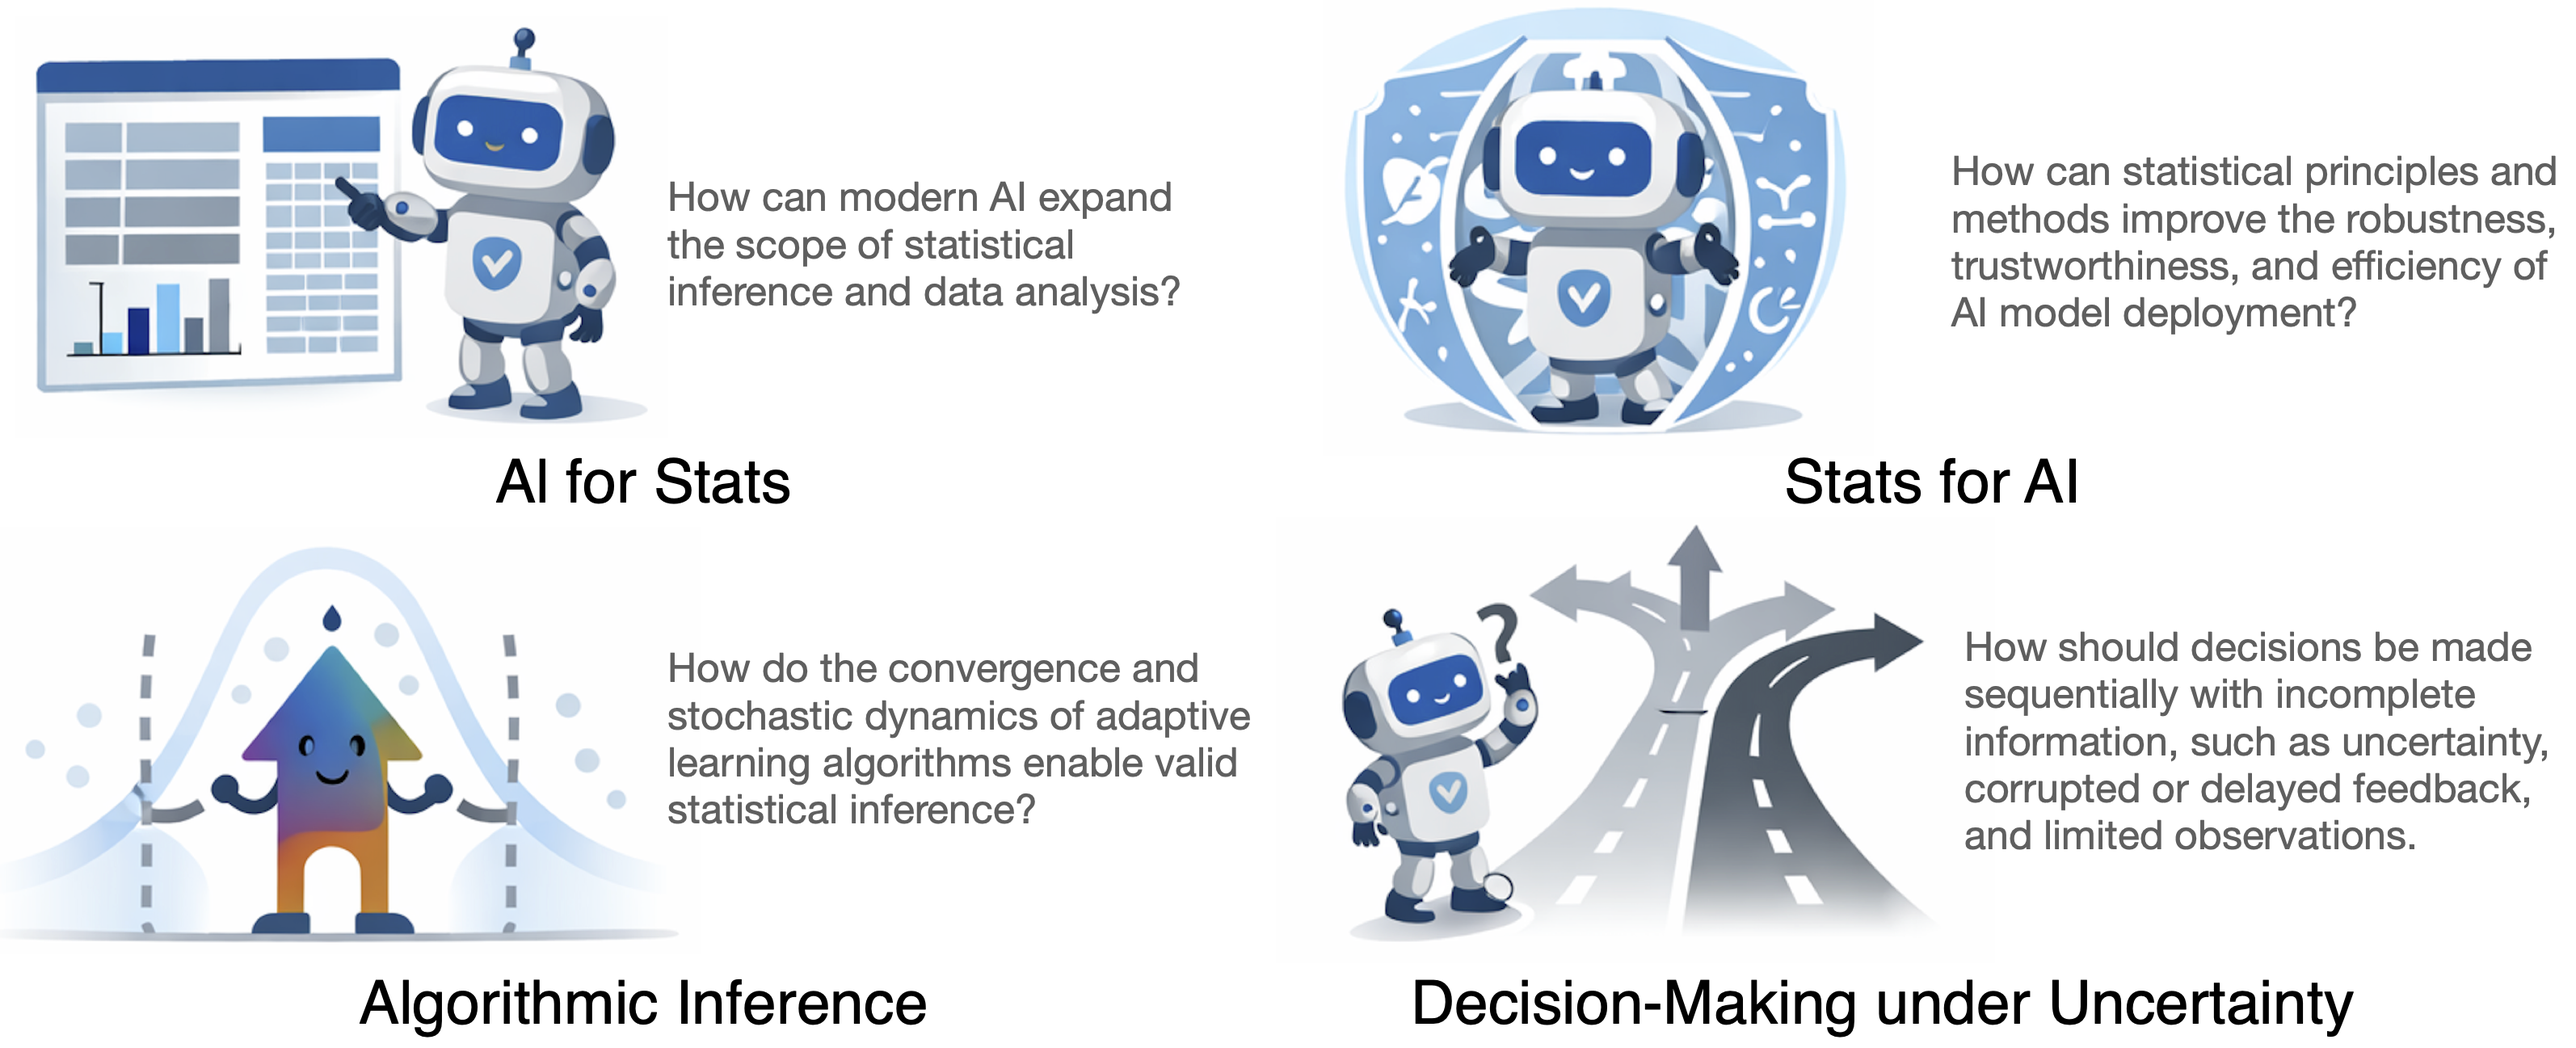
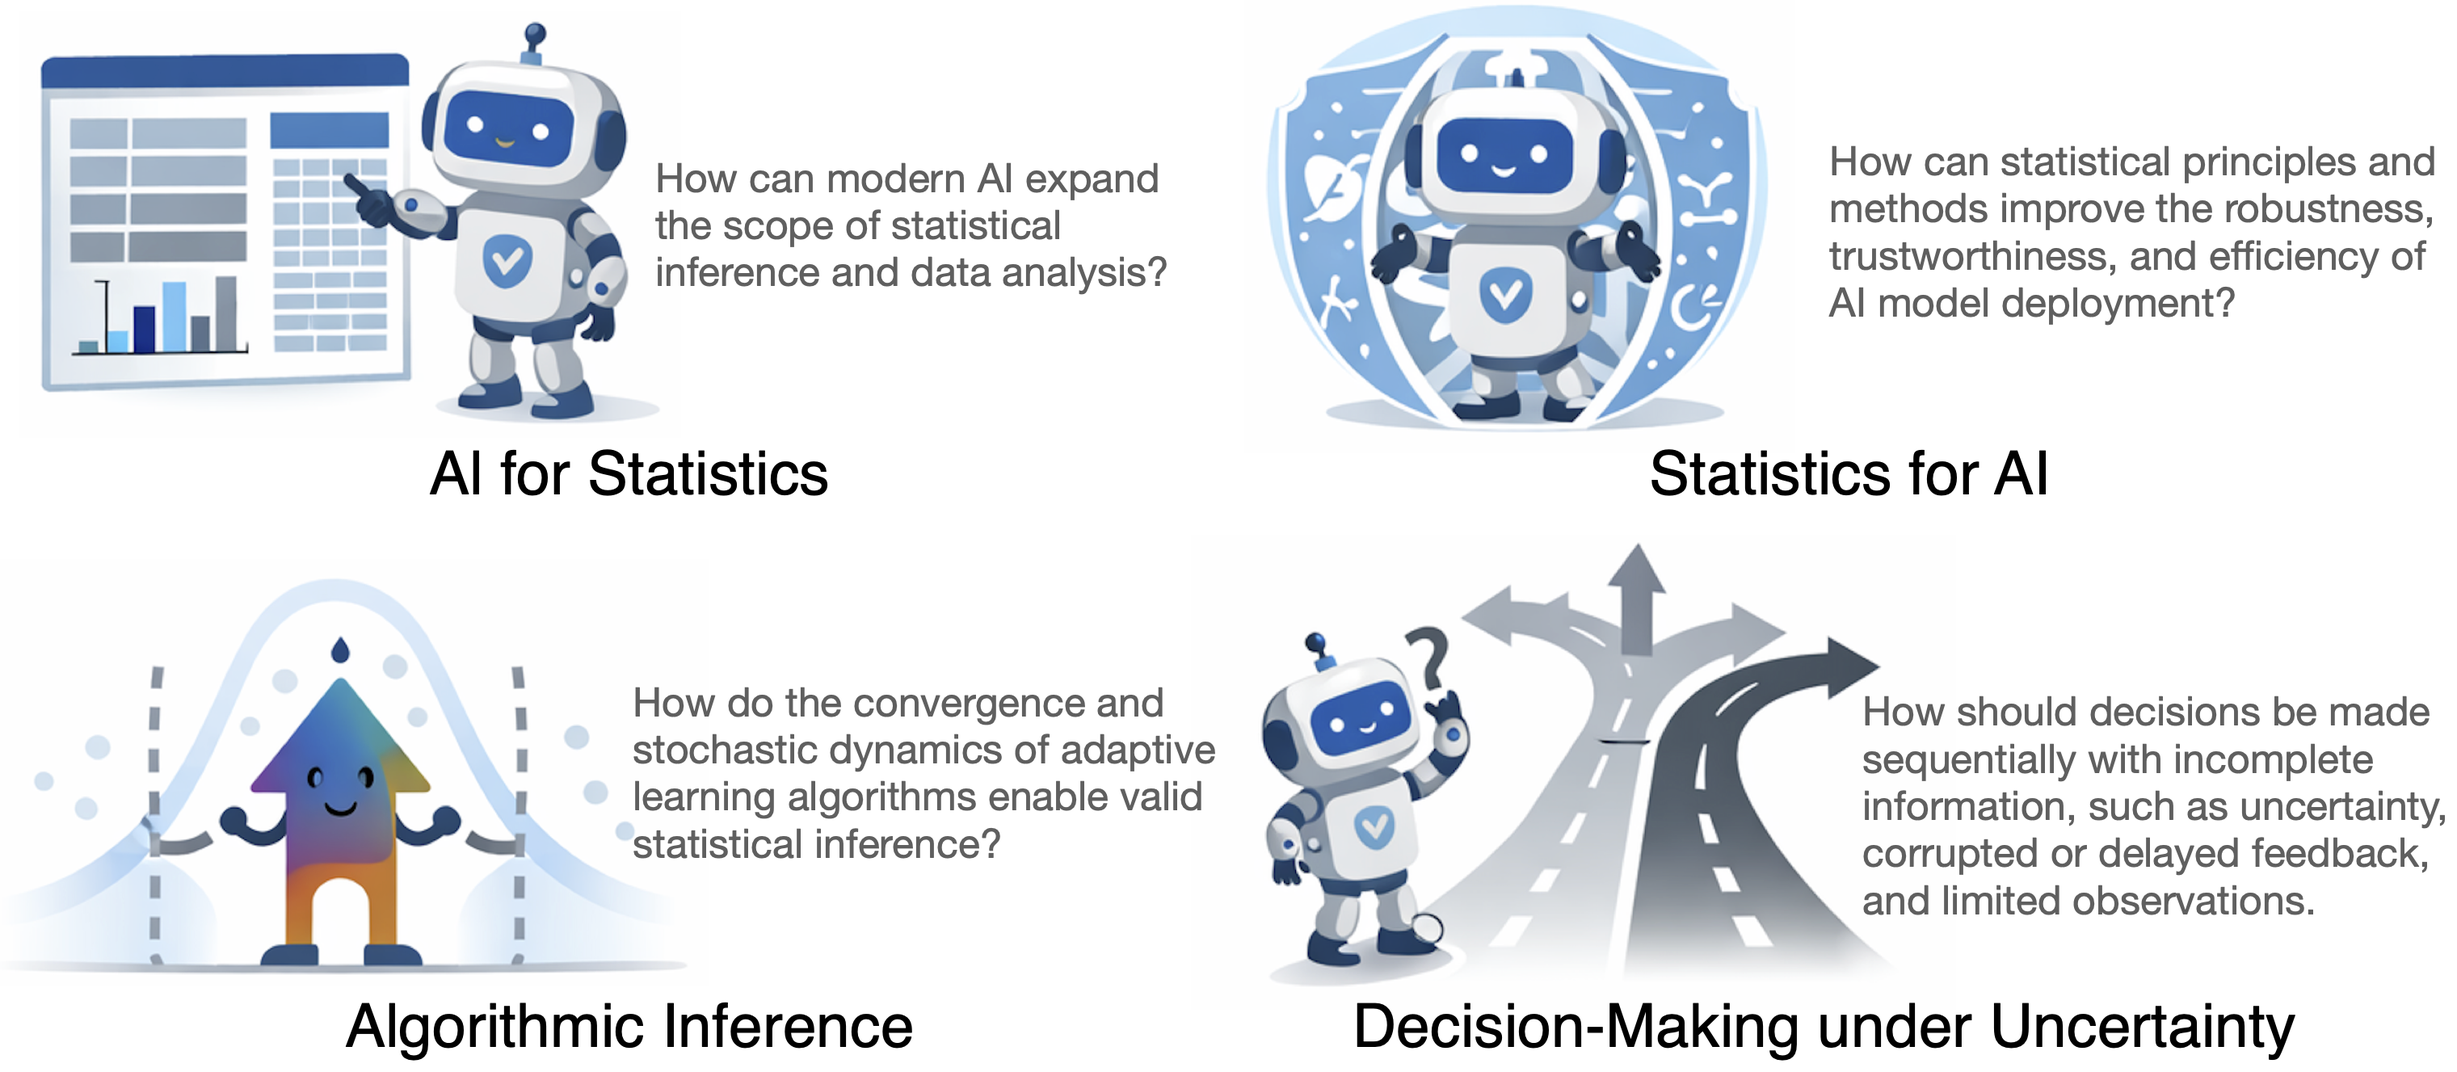
Update research

diff --git a/_pages/research.md b/_pages/research.md
@@ -109,6 +109,9 @@ My recent work explores these ideas in a range of settings, including local SGD 
 
 - **Online Statistical Inference for Nonlinear Stochastic Approximation with Markovian Data**  
   **X. Li**, J. Liang, and Z. Zhang. *arXiv preprint arXiv:2302.07690*, 2023.
+  
+- **Do Subsampled Newton Methods Work for High-Dimensional Data?**  
+  **X. Li**, S. Wang, and Z. Zhang. *AAAI Conference on Artificial Intelligence*, 2020.
 
 - **Asymptotic Behaviors of Projected Stochastic Approximation: A Jump Diffusion Perspective**  
   J. Liang, Y. Han, **X. Li**, and Z. Zhang. *Advances in Neural Information Processing Systems (NeurIPS)*, 2022 (Spotlight).
